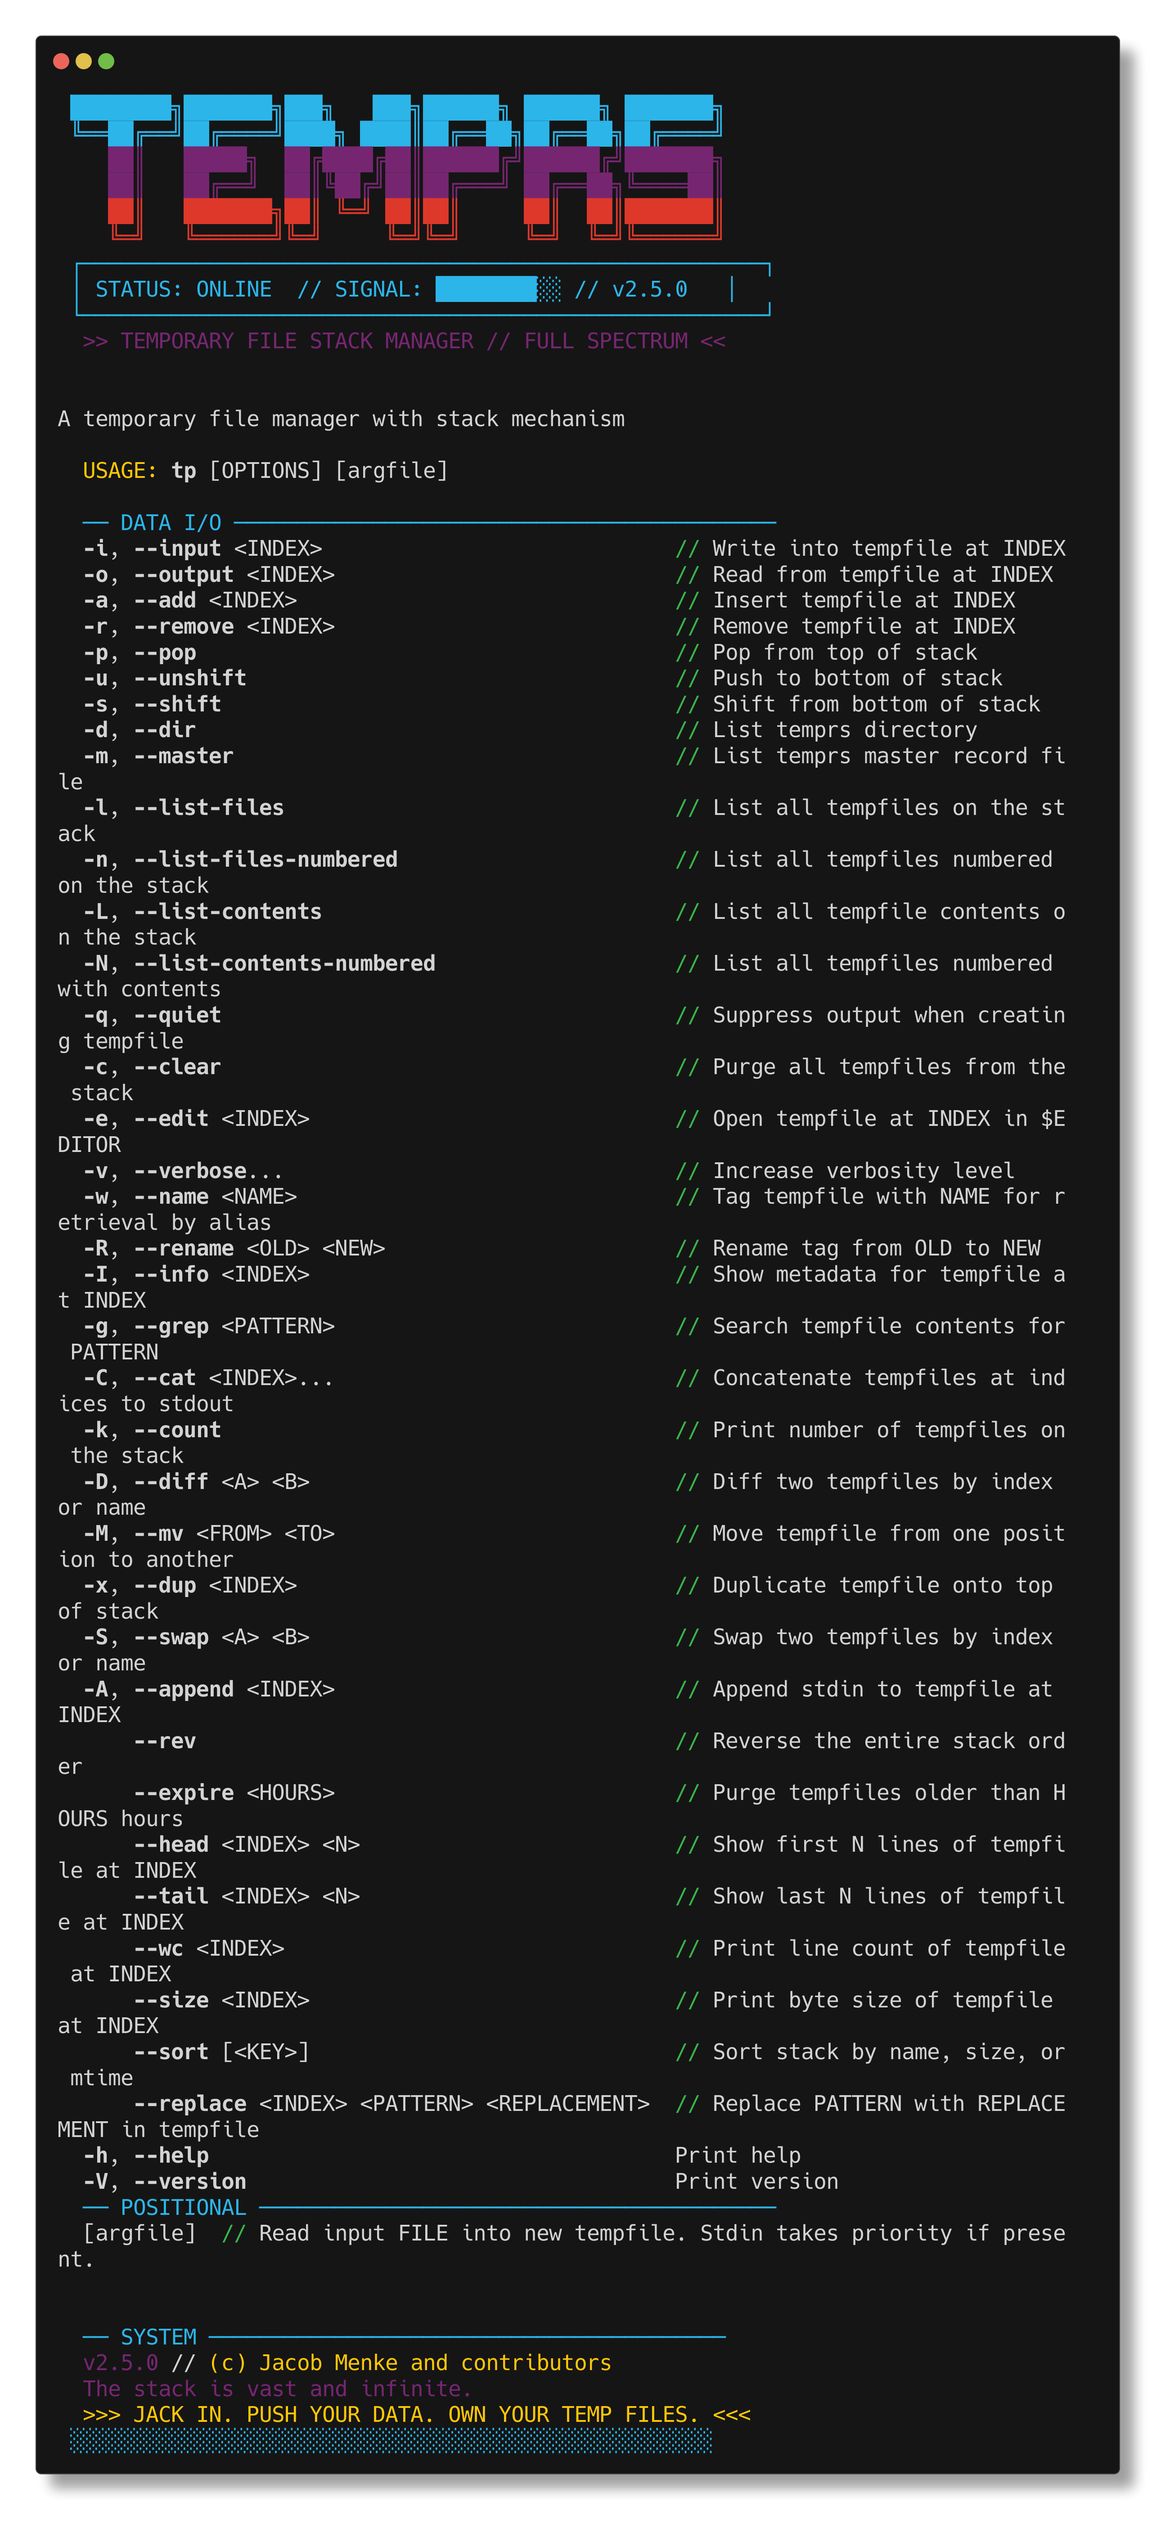
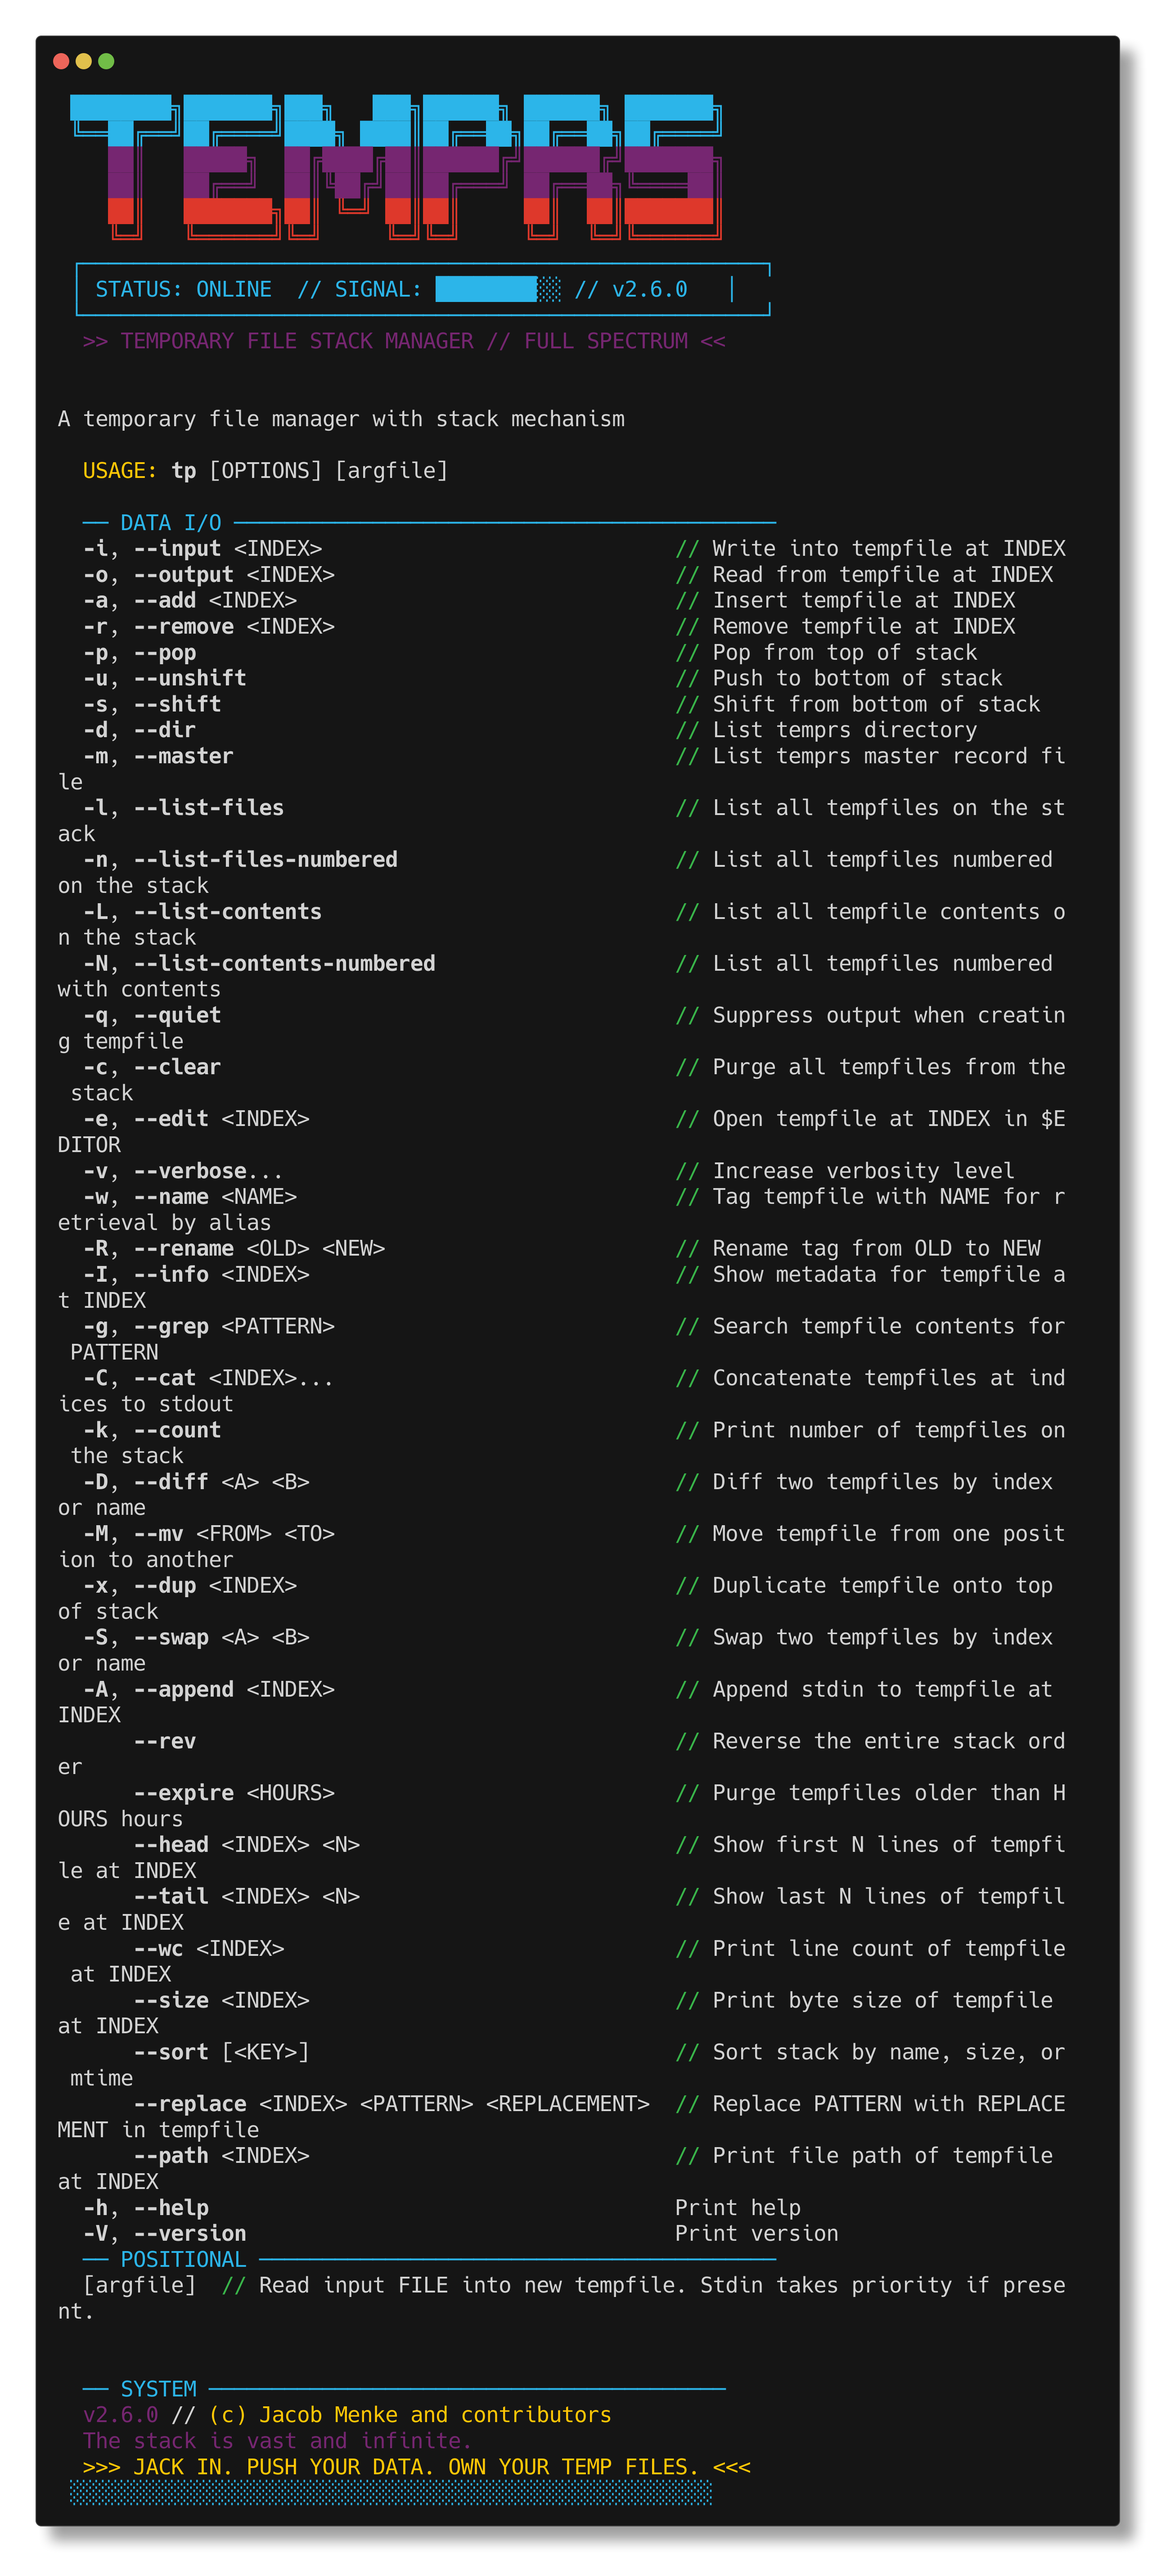
add path (--path INDEX), integration tests, bump version to 2.6.0

diff --git a/src/util/consts.rs b/src/util/consts.rs
@@ -51,9 +51,11 @@ pub const WC: &str = "wc";
 pub const SIZE: &str = "size";
 pub const SORT: &str = "sort";
 pub const REPLACE: &str = "replace";
+pub const PATH: &str = "path";
 pub const ERR_INVALID_NAME: &str = "Invalid or duplicate name";
 pub const ERR_NAME_TAB: &str = "Name must not contain tab characters";
 pub const ERR_EDITOR: &str = "Could not open editor";
+pub const ERR_MASTER_WRITE: &str = "Could not write master record";
 
 #[cfg(test)]
 mod tests {
@@ -136,7 +138,7 @@ mod tests {
         let flags = vec![
             DIRECTORY, INPUT, OUTPUT, ADD, REMOVE, POP, UNSHIFT,
             ARGFILE, MASTER, VERBOSE, LIST_FILES, LIST_FILES_NUMBERED,
-            LIST_CONTENTS, LIST_CONTENTS_NUMBERED, CLEAR, SHIFT, SILENT, EDIT, TAG, RENAME, INFO, GREP, CAT, COUNT, DIFF, MOVE, DUP, SWAP, APPEND, REVERSE, EXPIRE, HEAD, TAIL, WC, SIZE, SORT, REPLACE,
+            LIST_CONTENTS, LIST_CONTENTS_NUMBERED, CLEAR, SHIFT, SILENT, EDIT, TAG, RENAME, INFO, GREP, CAT, COUNT, DIFF, MOVE, DUP, SWAP, APPEND, REVERSE, EXPIRE, HEAD, TAIL, WC, SIZE, SORT, REPLACE, PATH,
         ];
         let mut sorted = flags.clone();
         sorted.sort();
@@ -149,7 +151,7 @@ mod tests {
         let flags = vec![
             DIRECTORY, INPUT, OUTPUT, ADD, REMOVE, POP, UNSHIFT,
             ARGFILE, MASTER, VERBOSE, LIST_FILES, LIST_FILES_NUMBERED,
-            LIST_CONTENTS, LIST_CONTENTS_NUMBERED, CLEAR, SHIFT, SILENT, EDIT, TAG, RENAME, INFO, GREP, CAT, COUNT, DIFF, MOVE, DUP, SWAP, APPEND, REVERSE, EXPIRE, HEAD, TAIL, WC, SIZE, SORT, REPLACE,
+            LIST_CONTENTS, LIST_CONTENTS_NUMBERED, CLEAR, SHIFT, SILENT, EDIT, TAG, RENAME, INFO, GREP, CAT, COUNT, DIFF, MOVE, DUP, SWAP, APPEND, REVERSE, EXPIRE, HEAD, TAIL, WC, SIZE, SORT, REPLACE, PATH,
         ];
         for f in flags {
             assert_eq!(f, f.to_lowercase(), "flag '{}' should be lowercase", f);
@@ -368,7 +370,7 @@ mod tests {
         let flags = vec![
             DIRECTORY, INPUT, OUTPUT, ADD, REMOVE, POP, UNSHIFT,
             ARGFILE, MASTER, VERBOSE, LIST_FILES, LIST_FILES_NUMBERED,
-            LIST_CONTENTS, LIST_CONTENTS_NUMBERED, CLEAR, SHIFT, SILENT, EDIT, TAG, RENAME, INFO, GREP, CAT, COUNT, DIFF, MOVE, DUP, SWAP, APPEND, REVERSE, EXPIRE, HEAD, TAIL, WC, SIZE, SORT, REPLACE,
+            LIST_CONTENTS, LIST_CONTENTS_NUMBERED, CLEAR, SHIFT, SILENT, EDIT, TAG, RENAME, INFO, GREP, CAT, COUNT, DIFF, MOVE, DUP, SWAP, APPEND, REVERSE, EXPIRE, HEAD, TAIL, WC, SIZE, SORT, REPLACE, PATH,
         ];
         for f in flags {
             assert!(!f.contains(' '), "flag '{}' should not contain spaces", f);
@@ -382,7 +384,7 @@ mod tests {
         let flags = vec![
             DIRECTORY, INPUT, OUTPUT, ADD, REMOVE, POP, UNSHIFT,
             ARGFILE, MASTER, VERBOSE, LIST_FILES, LIST_FILES_NUMBERED,
-            LIST_CONTENTS, LIST_CONTENTS_NUMBERED, CLEAR, SHIFT, SILENT, EDIT, TAG, RENAME, INFO, GREP, CAT, COUNT, DIFF, MOVE, DUP, SWAP, APPEND, REVERSE, EXPIRE, HEAD, TAIL, WC, SIZE, SORT, REPLACE,
+            LIST_CONTENTS, LIST_CONTENTS_NUMBERED, CLEAR, SHIFT, SILENT, EDIT, TAG, RENAME, INFO, GREP, CAT, COUNT, DIFF, MOVE, DUP, SWAP, APPEND, REVERSE, EXPIRE, HEAD, TAIL, WC, SIZE, SORT, REPLACE, PATH,
         ];
         for f in flags {
             assert!(!f.is_empty(), "flag constant should not be empty");
@@ -396,7 +398,7 @@ mod tests {
         let flags = vec![
             DIRECTORY, INPUT, OUTPUT, ADD, REMOVE, POP, UNSHIFT,
             ARGFILE, MASTER, VERBOSE, LIST_FILES, LIST_FILES_NUMBERED,
-            LIST_CONTENTS, LIST_CONTENTS_NUMBERED, CLEAR, SHIFT, SILENT, EDIT, TAG, RENAME, INFO, GREP, CAT, COUNT, DIFF, MOVE, DUP, SWAP, APPEND, REVERSE, EXPIRE, HEAD, TAIL, WC, SIZE, SORT, REPLACE,
+            LIST_CONTENTS, LIST_CONTENTS_NUMBERED, CLEAR, SHIFT, SILENT, EDIT, TAG, RENAME, INFO, GREP, CAT, COUNT, DIFF, MOVE, DUP, SWAP, APPEND, REVERSE, EXPIRE, HEAD, TAIL, WC, SIZE, SORT, REPLACE, PATH,
         ];
         for f in flags {
             assert!(f.is_ascii(), "flag '{}' should be ASCII", f);
@@ -410,9 +412,9 @@ mod tests {
         let flags = vec![
             DIRECTORY, INPUT, OUTPUT, ADD, REMOVE, POP, UNSHIFT,
             ARGFILE, MASTER, VERBOSE, LIST_FILES, LIST_FILES_NUMBERED,
-            LIST_CONTENTS, LIST_CONTENTS_NUMBERED, CLEAR, SHIFT, SILENT, EDIT, TAG, RENAME, INFO, GREP, CAT, COUNT, DIFF, MOVE, DUP, SWAP, APPEND, REVERSE, EXPIRE, HEAD, TAIL, WC, SIZE, SORT, REPLACE,
+            LIST_CONTENTS, LIST_CONTENTS_NUMBERED, CLEAR, SHIFT, SILENT, EDIT, TAG, RENAME, INFO, GREP, CAT, COUNT, DIFF, MOVE, DUP, SWAP, APPEND, REVERSE, EXPIRE, HEAD, TAIL, WC, SIZE, SORT, REPLACE, PATH,
         ];
-        assert_eq!(flags.len(), 37);
+        assert_eq!(flags.len(), 38);
     }
 
     // ── naming conventions ──────────────────────────────

diff --git a/tests/integration.rs b/tests/integration.rs
@@ -89,7 +89,7 @@ fn help_shows_all_flags() {
         "--input", "--output", "--add", "--remove", "--pop", "--unshift",
         "--shift", "--dir", "--master", "--list-files", "--list-files-numbered",
         "--list-contents", "--list-contents-numbered", "--quiet", "--clear",
-        "--verbose", "--edit", "--name", "--rename", "--info", "--grep", "--cat", "--count", "--diff", "--mv", "--dup", "--swap", "--append", "--rev", "--expire", "--head", "--tail", "--wc", "--size", "--sort", "--replace",
+        "--verbose", "--edit", "--name", "--rename", "--info", "--grep", "--cat", "--count", "--diff", "--mv", "--dup", "--swap", "--append", "--rev", "--expire", "--head", "--tail", "--wc", "--size", "--sort", "--replace", "--path",
     ] {
         assert!(text.contains(flag), "missing flag: {}", flag);
     }
@@ -2872,4 +2872,56 @@ fn replace_preserves_other_files() {
     run_tp(&dir, &["--replace", "1", "original", "modified"]);
     assert_eq!(stdout(&run_tp(&dir, &["-o", "1"])), "modified");
     assert_eq!(stdout(&run_tp(&dir, &["-o", "2"])), "untouched");
+}
+
+// ── Path ───────────────────────────────────────────────
+
+#[test]
+fn path_by_index() {
+    let dir = setup_clean_env();
+    run_tp_stdin(&dir, &[], "data");
+    let out = run_tp(&dir, &["--path", "1"]);
+    assert!(out.status.success());
+    let text = stdout(&out);
+    assert!(text.trim().starts_with(dir.to_str().unwrap()));
+    assert!(text.trim().contains("tempfile"));
+}
+
+#[test]
+fn path_by_name() {
+    let dir = setup_clean_env();
+    run_tp_stdin(&dir, &["-w", "myfile"], "data");
+    let out = run_tp(&dir, &["--path", "myfile"]);
+    assert!(out.status.success());
+    assert!(stdout(&out).trim().contains("tempfile"));
+}
+
+#[test]
+fn path_usable_in_scripts() {
+    let dir = setup_clean_env();
+    run_tp_stdin(&dir, &[], "content here");
+    let out = run_tp(&dir, &["--path", "1"]);
+    let path = stdout(&out).trim().to_string();
+    // The path should be a real file we can read
+    let content = std::fs::read_to_string(&path).unwrap();
+    assert_eq!(content, "content here");
+}
+
+#[test]
+fn path_invalid_index_fails() {
+    let dir = setup_clean_env();
+    run_tp_stdin(&dir, &[], "data");
+    let out = run_tp(&dir, &["--path", "99"]);
+    assert!(!out.status.success());
+}
+
+#[test]
+fn path_negative_index() {
+    let dir = setup_clean_env();
+    run_tp_stdin(&dir, &[], "first");
+    tick();
+    run_tp_stdin(&dir, &[], "last");
+    let out1 = run_tp(&dir, &["--path", "-1"]);
+    let out2 = run_tp(&dir, &["--path", "2"]);
+    assert_eq!(stdout(&out1).trim(), stdout(&out2).trim());
 }

diff --git a/src/model/app.rs b/src/model/app.rs
@@ -389,6 +389,9 @@ impl TempApp {
             let v: Vec<String> = vals.cloned().collect();
             self.replace_in_tempfile(v[0].clone(), v[1].clone(), v[2].clone());
         }
+        if let Some(f) = matches.get_one::<String>(PATH) {
+            self.path_tempfile(f.clone());
+        }
         if matches.get_flag(SHIFT) {
             self.remove_at_idx(format!("{}", 1))
         }
@@ -748,6 +751,16 @@ impl TempApp {
             print!("{}", combined);
         }
         exit(0)
+    }
+
+    fn path_tempfile(&mut self, stk_idx: String) {
+        match self.resolve_idx(&stk_idx) {
+            Some(idx) => {
+                println!("{}", self.state.temp_file_stack()[idx].display());
+                exit(0)
+            }
+            None => util_terminate_error(ERR_INVALID_IDX),
+        }
     }
 
     fn replace_in_tempfile(&mut self, stk_idx: String, pattern: String, replacement: String) {

diff --git a/src/model/opts.rs b/src/model/opts.rs
@@ -243,6 +243,11 @@ pub fn parse_opts() -> Command {
             .num_args(3)
             .allow_hyphen_values(true)
             .help("\x1b[32m//\x1b[0m Replace PATTERN with REPLACEMENT in tempfile"))
+        .arg(Arg::new(PATH)
+            .long("path")
+            .value_name("INDEX")
+            .allow_hyphen_values(true)
+            .help("\x1b[32m//\x1b[0m Print file path of tempfile at INDEX"))
 }
 
 #[cfg(test)]
@@ -648,7 +653,7 @@ mod tests {
         let custom_count = app.get_arguments()
             .filter(|a| a.get_id() != "help" && a.get_id() != "version")
             .count();
-        assert_eq!(custom_count, 37);
+        assert_eq!(custom_count, 38);
     }
 
     // ── flag mutual independence ────────────────────────

diff --git a/README.md b/README.md
@@ -123,6 +123,11 @@ tp --wc mydata
 # print byte size
 tp --size INDEX
 tp --size mydata
+
+# print file path (for use in scripts)
+tp --path INDEX
+tp --path mydata
+cat "$(tp --path 1)"
 ```
 
 #### LOADING FILE PAYLOADS // FILE OPERATIONS
